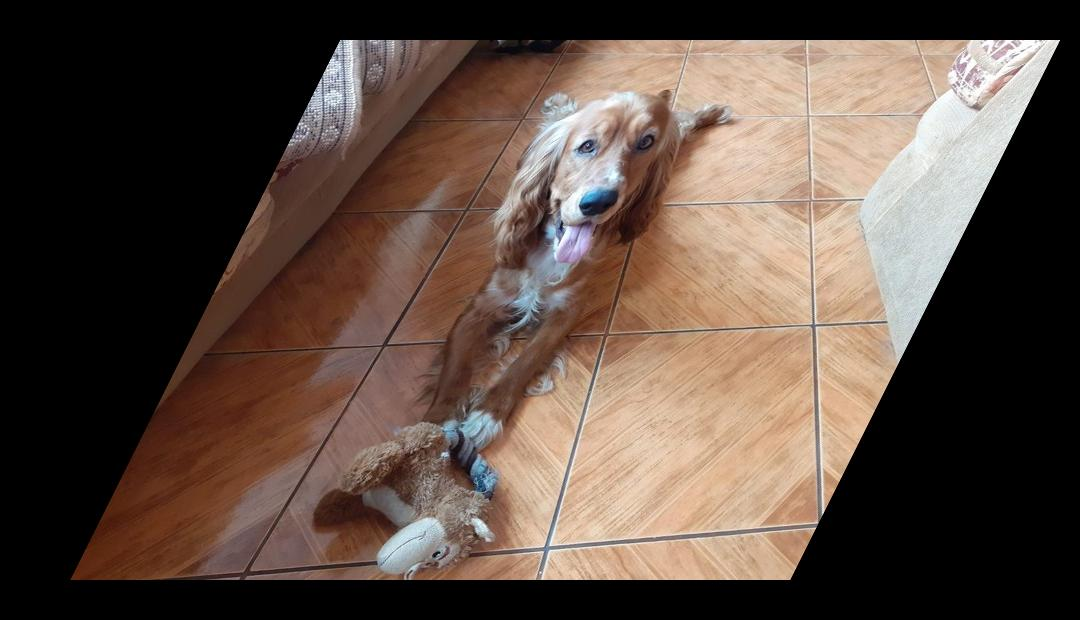
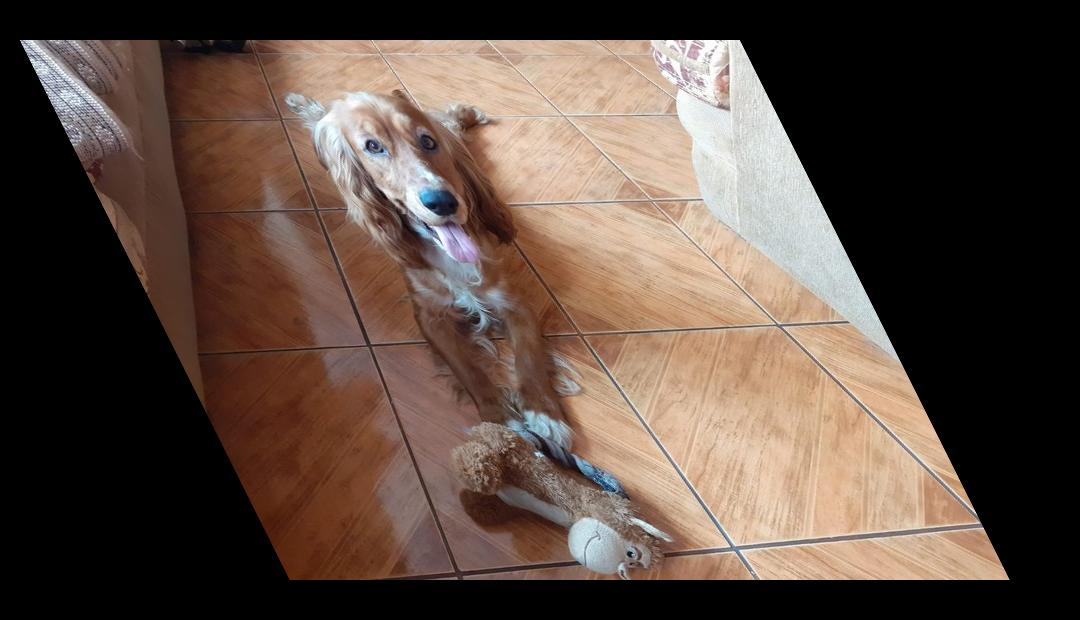
shearActualizacion2

diff --git a/Tarea 2 Detect-Rotate/sheareffect.py b/Tarea 2 Detect-Rotate/sheareffect.py
@@ -7,32 +7,31 @@ current_directory = Path(__file__).resolve().parent
 path = f"{current_directory}/imagenes/image.jpg"
 path2 = f"{current_directory}/imagenesshear/imageshear.jpg"
 
-# read the input image
+# leer la imagen de entrada
 img = cv2.imread(path)
-# convert from BGR to RGB so we can plot using matplotlib
+# convertir de BGR a RGB para que podamos utilizar matplotlib
 img = cv2.cvtColor(img, cv2.COLOR_BGR2RGB)
-# disable x & y axis
+# deshabilitar el eje x e y
 plt.axis('off')
-# show the image
+# mostrar la imagen original
 plt.imshow(img)
 plt.show()
 
+# determinar el eje y la inclinacion de la imagen
 eje = input("En q direccion desea aplicar el efecto shear? (X/Y): ")
 if eje in ["y", "Y"]:
     inclinacion = input("Inclinar hacia la derecha(R) o hacia la izquierda(L)?: ")
     if inclinacion in ["r","R"]:
         img = cv2.copyMakeBorder(img, 380, 0, 40, 40, cv2.BORDER_CONSTANT, value = (0, 0, 0))
-        rows, cols, dim = img.shape # get the image shape
-        # transformation matrix for Shearing
-        # shearing applied to y-axis
+        rows, cols, dim = img.shape # obtener la forma de la imagen
+        # matriz de transformación para Shearing
+        # shearing aplicado al eje x
         M = np.float32([[1, 0, 0],
             	        [-0.5, 1, 0],
            	            [0, 0, 1]])
     if inclinacion in ["l","L"]:
         img = cv2.copyMakeBorder(img, 0, 380, 40, 40, cv2.BORDER_CONSTANT, value = (0, 0, 0))
         rows, cols, dim = img.shape
-        # transformation matrix for Shearing
-        # shearing applied to y-axis
         M = np.float32([[1, 0, 0],
             	        [0.5, 1, 0],
            	            [0, 0, 1]])
@@ -40,28 +39,26 @@ if eje in ["x", "X"]:
     inclinacion = input("Inclinar hacia arriba(U) o hacia abajo(D)?: ")
     if inclinacion in ["d","D"]:
         img = cv2.copyMakeBorder(img, 40, 40, 0, 360, cv2.BORDER_CONSTANT, value = (0, 0, 0))
-        rows, cols, dim = img.shape # get the image shape
-        # transformation matrix for Shearing
-        # shearing applied to y-axis
+        rows, cols, dim = img.shape 
+        # matriz de transformación para Shearing
+        # shearing aplicado al eje y
         M = np.float32([[1, 0.5, 0],
             	        [0, 1, 0],
            	            [0, 0, 1]])
     if inclinacion in ["u","U"]:
         img = cv2.copyMakeBorder(img, 40, 40, 360, 0, cv2.BORDER_CONSTANT, value = (0, 0, 0))
         rows, cols, dim = img.shape
-        # transformation matrix for Shearing
-        # shearing applied to y-axis
         M = np.float32([[1, -0.5, 0],
             	        [0, 1, 0],
            	            [0, 0, 1]])
-# apply a perspective transformation to the image                
+# aplicar una transformación de perspectiva a la imagen               
 sheared_img = cv2.warpPerspective(img,M,(int(cols),int(rows)))
-# disable x & y axis
+# deshabilitar el eje x e y
 plt.axis('off')
-# show the resulting image
+# mostrar la imagen resultante
 plt.imshow(sheared_img)
 plt.show()
-# save the resulting image to disk
+# guardar la imagen resultante en el disco
 plt.imsave(path2, sheared_img)
 
 
